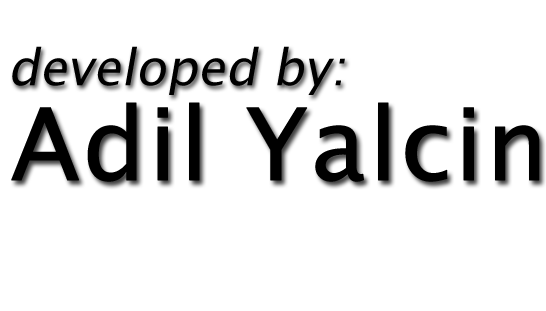
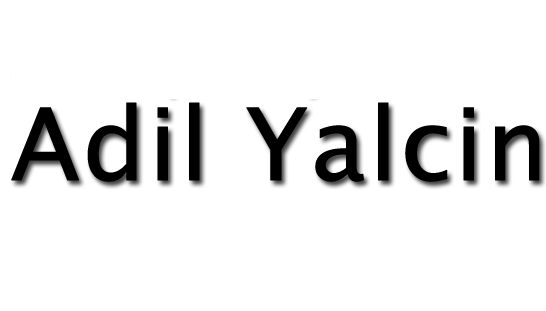
datasource popup for file sources + popupbox close button + Improved credits popup

Changed region(s): [[0.0, 0.1447, 0.6538, 0.3183]]

diff --git a/keshif.js b/keshif.js
@@ -547,16 +547,24 @@ kshf.list = function(_kshf, config, root){
         .text("i");
 
     // TODO: implement popup for file-based resources
-    listHeaderTopRow
-      .append("a")
-        .attr("href","https://docs.google.com/spreadsheet/ccc?key="+kshf.source.gdocId)
-        .attr("target","_blank")
-        .style("float","right")
-      .append("img")
-        .attr("class","datasource")
-        .attr("title","Open Data Source")
-        .attr("src",this.parentKshf.dirRoot+"img/datasource.png")
-        ;
+    if(_kshf.showDataSource !== false){
+        listHeaderTopRow
+          .append("div")
+            .style("float","right")
+            .on("click",function(){
+                if(_kshf.source.gDocId){
+                    window.open("https://docs.google.com/spreadsheet/ccc?key="+_kshf.source.gdocId,"_blank");
+                } else {
+                    me.parentKshf.root.select(".layout_infobox").style("display","block");
+                    me.parentKshf.root.select("div.infobox_datasource").style("display","block");
+                }
+            })
+          .append("img")
+            .attr("class","datasource")
+            .attr("title","Open Data Source")
+            .attr("src",this.parentKshf.dirRoot+"img/datasource.png")
+            ;
+        }
 
     var listColumnRow=listHeader.append("div").attr("class","listColumnRow");
 
@@ -849,16 +857,18 @@ kshf.init = function (options) {
     if(options.dirRoot !== undefined){
         this.dirRoot = options.dirRoot;
     }
+    this.showDataSource = true;
+    if(options.showDataSource!==undefined){
+        this.showDataSource = options.showDataSource;
+    }
 
     var creditString="";
-    creditString += "<div class=\"all-the-credits\">";
-    creditString += "";
     creditString += "<div align=\"center\">";
-    creditString += "This browser is created by <span class=\"libName\">Keshif<\/span> library.";
+    creditString += "Browser created by <span class=\"libName\">Keshif<\/span> library.";
     creditString += "<\/br>";
-    creditString += " <div style=\"width:500px; text-align:left\" align=\"left\" class=\"boxinbox\">";
+    creditString += " <div align=\"left\" class=\"boxinbox features\">";
     creditString += " <ul class=\"credits_features\">";
-    creditString += "     <li>Left: categories. Top: time. All: in synch.<\/li>";
+    creditString += "     <li>Left: categories. Top: time. All: in sync.<\/li>";
     creditString += "     <li>Mix and match your search. \"And\" selection across different filters, \"or\" inside same filter with multiple categories.<\/li>";
     creditString += "     <li>Text search: Look up all items in the collections, or filter categories.<\/li>";
     creditString += "     <li>Time filtering: Drag &amp; drop handles, set your range.<\/li>";
@@ -870,18 +880,17 @@ kshf.init = function (options) {
     creditString += "Get keshif source code from <a href=\"http:\/\/www.github.com\/adilyalcin\/Keshif\" target=\"_blank\"><img alt=\"github\" src=\"img\/gitHub.png\" height=\"20\" style=\"position:relative; top:5px\"><\/a> and use it on your own page.<\/br>";
     creditString += "<iframe src=\"http:\/\/ghbtns.com\/github-btn.html?user=adilyalcin&repo=Keshif&type=watch&count=true&size=large\" allowtransparency=\"true\" frameborder=\"0\" scrolling=\"0\" width=\"152px\" height=\"30px\"><\/iframe>";
     creditString += "<iframe src=\"http:\/\/ghbtns.com\/github-btn.html?user=adilyalcin&repo=Keshif&type=fork&count=true&size=large\" allowtransparency=\"true\" frameborder=\"0\" scrolling=\"0\" width=\"152px\" height=\"30px\"><\/iframe>";
-    creditString += "<\/div>";
+    creditString += "<\/div><br>";
     creditString += "";
-    creditString += "<div align=\"center\" class=\"project_3rdparty \">";
-    creditString += "<div class=\"boxinbox\">";
+    creditString += "<div align=\"center\" class=\"boxinbox project_3rdparty\">";
     creditString += " 3rd party libraries and APIs:<br\/>";
     creditString += " <a href=\"http:\/\/d3js.org\/\" target=\"_blank\"><img src=\""+this.dirRoot+"img\/3rdparty_01.png\" style=\"width:110px; top:0px\"><\/a>";
     creditString += " <a href=\"http:\/\/jquery.com\" target=\"_blank\"><img src=\""+this.dirRoot+"img\/3rdparty_02.png\" style=\"width:150px; top: -15px;\"><\/a>";
     creditString += " <a href=\"https:\/\/developers.google.com\/chart\/\" target=\"_blank\"><img src=\""+this.dirRoot+"img\/3rdparty_03.png\" style=\"width:90px\"><\/a>";
-    creditString += "<\/div>";
     creditString += "<\/div><br>";
     creditString += "";
-    creditString += "<div style=\"width: 450px;\" align=\"center\" class=\"boxinbox\">";
+    creditString += "<div style=\"width: 450px;\" align=\"center\" class=\"boxinbox project_credits\">";
+    creditString += " Developed by:<br\/>";
     creditString += " <a href=\"http:\/\/www.adilyalcin.me\" target=\"_blank\"><img src=\""+this.dirRoot+"img\/credit-1_01.png\" style=\"height:100px\"><\/a>";
     creditString += " <img src=\""+this.dirRoot+"img\/credit-1_02.png\" style=\"height:100px; padding:0px 4px 0px 4px\">";
     creditString += " <a href=\"http:\/\/www.cs.umd.edu\/hcil\/\" target=\"_blank\"><img src=\""+this.dirRoot+"img\/credit-1_03.png\" style=\"height:100px\"><\/a>";
@@ -892,7 +901,6 @@ kshf.init = function (options) {
     creditString += "<div align=\"center\" class=\"project_fund\">";
     creditString += "<i>Keshif<\/i> (<a target=\"_blank\" href=\"http:\/\/translate.google.com\/#auto\/en\/ke%C5%9Fif\">keşif<\/a>) means discovery and exploration in Turkish.<br\/><br\/>";
     creditString += "Research made practical. Funded in part by <a href=\"http:\/\/www.huawei.com\">Huawei<\/a>. <\/div>";
-    creditString += "<\/div>";
     creditString += "";
 
     this.layout_infobox = this.root.append("div").attr("class", "kshf layout_infobox");
@@ -900,6 +908,8 @@ kshf.init = function (options) {
         .attr("class","infobox_background")
         .on("click",function(){
             me.layout_infobox.style("display","none");
+            me.layout_infobox.select("div.infobox_credit").style("display","none");
+            me.layout_infobox.select("div.infobox_datasource").style("display","none");
         });
     var loadingBox = this.layout_infobox.append("div").attr("class","infobox_content infobox_loading");
     loadingBox.append("img")
@@ -911,8 +921,34 @@ kshf.init = function (options) {
     hmmm.append("span")
         .text("Loading...");
     hmmm.append("div");
-    var creditBox = this.layout_infobox.append("div").attr("class","infobox_content infobox_credit");
-    creditBox.html(creditString);
+    
+    var infobox_credit = this.layout_infobox.append("div").attr("class","infobox_content infobox_credit")
+    infobox_credit.append("div").attr("class","infobox_close_button").text("x")
+        .on("click",function(){
+            me.layout_infobox.style("display","none");
+            me.layout_infobox.select("div.infobox_credit").style("display","none");
+            me.layout_infobox.select("div.infobox_datasource").style("display","none");
+        });
+    infobox_credit.append("div").attr("class","all-the-credits").html(creditString);
+
+    var infobox_datasource = this.layout_infobox.append("div").attr("class","infobox_content infobox_datasource").text("Datasource files:");
+    infobox_datasource.append("div").attr("class","infobox_close_button").text("x")
+        .on("click",function(){
+            me.layout_infobox.style("display","none");
+            me.layout_infobox.select("div.infobox_credit").style("display","none");
+            me.layout_infobox.select("div.infobox_datasource").style("display","none");
+        });
+    var infobox_datasource_ul = infobox_datasource.append("ul");
+    if(this.showDataSource && this.source.gDocId===undefined){
+        infobox_datasource_ul.selectAll("li")
+            .data(this.source.sheets, this._dataMap)
+          .enter().append("li")
+            .append("a")
+            .attr("target","_blank")
+            .attr("href",function(i){ return me.source.dirPath+i.name+"."+me.source.fileType;})
+            .text(function(i){ return i.name+"."+me.source.fileType;})
+            ;
+    }
 
     this.layoutBackground = this.root.append("div").attr("class","kshf layout_background");
     this.layoutBackground.append("div").attr("class","leftBlockBackground");

diff --git a/keshif.css b/keshif.css
@@ -1305,6 +1305,24 @@ div.listColumnRow div.listcell{
     transition: all 0.5s;
 }
 
+
+.kshf.layout_infobox div.infobox_close_button{
+    position: absolute;
+    right: 3px;
+    top: 3px;
+    background-color: rgb(151, 151, 151);
+    width: 20px;
+    height: 20px;
+    border-radius: 20px;
+    text-align: center;
+    cursor: pointer;
+    line-height: 20px;
+    color: white;
+}
+.kshf.layout_infobox div.infobox_close_button:hover{
+    background-color: rgb(111, 111, 111);
+}
+
 div.kshf.layout_infobox div.infobox_content{
     border: 0px double gray;
     display: block;
@@ -1326,7 +1344,7 @@ div.kshf.layout_infobox div.infobox_loading{
 
 div.kshf.layout_infobox div.infobox_credit{
     display:none;
-    padding-top:30px;
+    padding-top:15px;
     width: 600px;
     height: 580px;
 }
@@ -1335,6 +1353,15 @@ div.kshf.layout_infobox div.infobox_credit div.all-the-credits{
     top:0px
     bottom:0px;
 }
+
+div.kshf.layout_infobox div.infobox_datasource{
+    display:none;
+    padding-top:30px;
+    padding-left:20px;
+    width: 300px;
+    height: 200px;
+}
+
 
 .kshf.layout_infobox div.infobox_loading img.status{
     margin: auto;
@@ -1364,11 +1391,11 @@ div.kshf.layout_infobox div.infobox_credit div.all-the-credits{
     font-style: italic;
 }
 
-.project_3rdparty{
+div.boxinbox.project_3rdparty{
     font-size: 0.9em;
     font-style: italic;
 }
-.project_3rdparty img{
+div.boxinbox.project_3rdparty img{
     position:relative;
 }
 
@@ -1395,3 +1422,16 @@ span.libName{
     font-size: 1.4em;
     font-weight: 700;
 }
+
+div.boxinbox.features{
+    width:500px; 
+    text-align:left;
+    border: solid 0px lightgray; 
+    box-shadow: 0px 0px 0px gray; 
+}
+
+div.boxinbox.project_credits{
+    font-size: 0.9em;
+    font-style: italic;
+}
+

diff --git a/demo/zoo.html b/demo/zoo.html
@@ -27,6 +27,7 @@ function loadChart() {
         domID : "#chart_div4",
         itemName : "Animals",
         categoryTextWidth:150,
+        showDataSource : false,
         source : {
             gdocId : '0Ai6LdDWgaqgNdF9UbDNXRmRCZThvb2I0YlIzT2pPN0E',
             sheets : [ {name:"Animals"} ]
